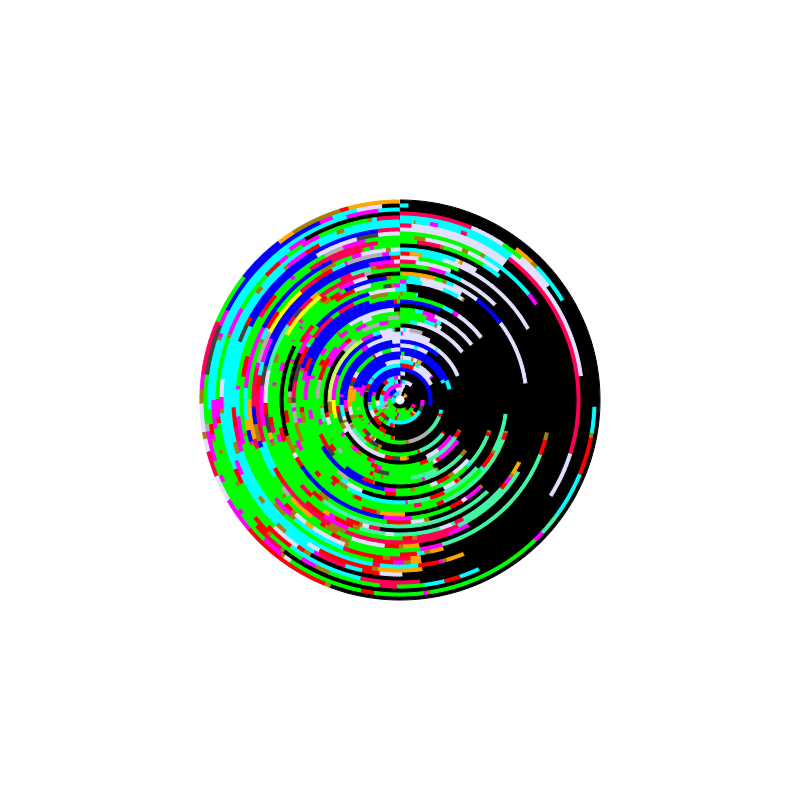
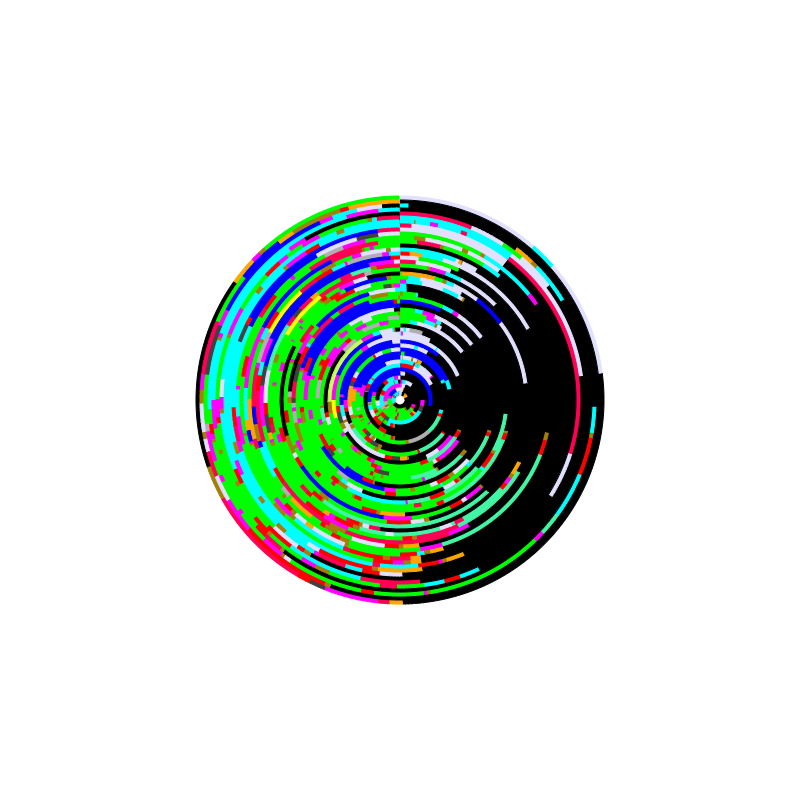
Added 4/5

diff --git a/index.html b/index.html
@@ -15,13 +15,13 @@
 		</div>
 	-->
 		<div class="inputDiv">
-			<label for="cRad">Pie Radius</label><input name="cRad" id="cRad" type="number" min="0.1" max="50" step="1" value="204">
+			<label for="cRad">Pie Radius</label><input name="cRad" id="cRad" type="number" min="0.1" max="50" step="1" value="208">
 		</div>
 		<div class="inputDiv">
-			<label for="sRad">Spiral Start Radius</label><input name="sRad" id="sRad" type="number" min="0.1" max="50" step="1" value="300">
+			<label for="sRad">Spiral Start Radius</label><input name="sRad" id="sRad" type="number" min="0.1" max="50" step="1" value="306">
 		</div>
 		<div class="inputDiv">
-			<label for="eRad">Spiral End Radius</label><input name="eRad" id="eRad" type="number" min="0.1" max="50" step="1" value="306">
+			<label for="eRad">Spiral End Radius</label><input name="eRad" id="eRad" type="number" min="0.1" max="50" step="1" value="312">
 		</div>
 		<div id="buttonDiv">
 			<label>Open .png <input type="file" id="impBtn" name="impBtn" accept=".png" onchange="importCanvas();"></label>
@@ -58,9 +58,21 @@
 			var ctx2 = canvas2.getContext("2d");
 
 			var myDay = [
-				['02:44','TV'],
-				['03:15','side work'],
-				['','TV'],
+				['00:10','main work'],
+				['00:30','eating'],
+				['04:30','TV'],
+				['12:49','sleep'],
+				['13:05','reading'],
+				['13:15','bathroom'],
+				['13:25','chores'],
+				['13:51','eating'],
+				['14:43','main work'],
+				['14:48','chores'],
+				['16:24','main work'],
+				['16:30','chores'],
+				['16:35','bathroom'],
+				['16:43','chores'],
+				['','side work'],
 			];
 
 			var categories = {
